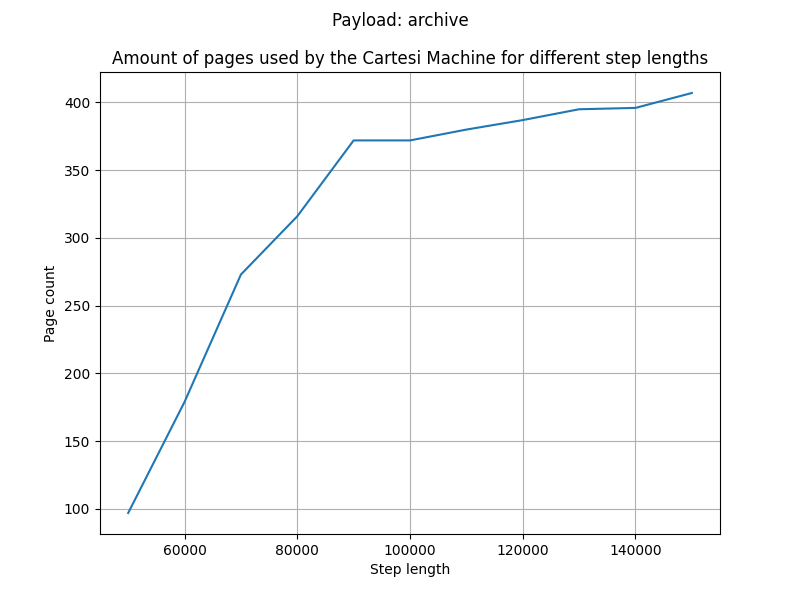
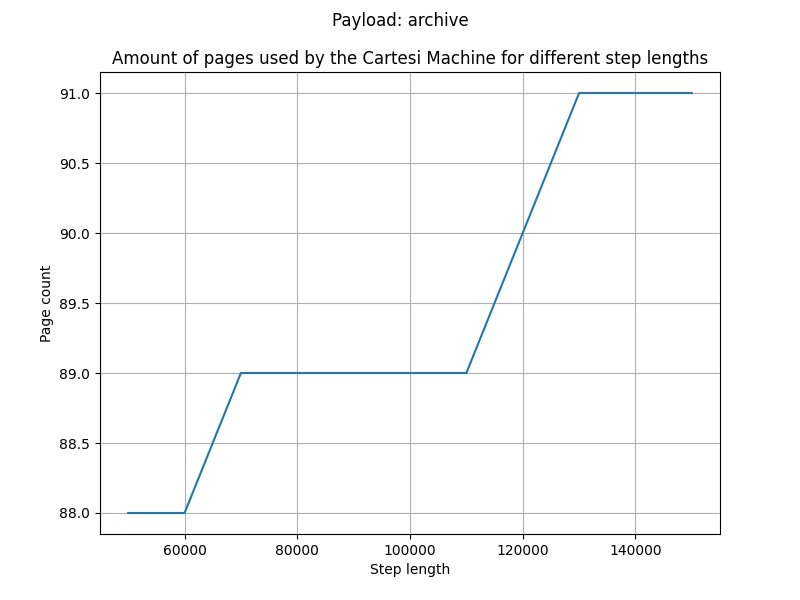
fix: update benchmark results

diff --git a/results/README.md b/results/README.md
@@ -134,7 +134,7 @@ We evaluated the following payloads:
 
 <details>
   <summary>`sort` with hashing, pages</summary>
-  [(50000, 97), (60000, 179), (70000, 273), (80000, 316), (90000, 372), (100000, 372), (110000, 380), (120000, 387), (130000, 395), (140000, 396), (150000, 407)]
+  [(50000, 77), (60000, 77), (70000, 77), (80000, 77), (90000, 77), (100000, 77), (110000, 77), (120000, 77), (130000, 77), (140000, 77), (150000, 77)]
 </details>
 
 <details>
@@ -152,7 +152,7 @@ We evaluated the following payloads:
 
 <details>
   <summary>`archive` with hashing, pages</summary>
-  [(50000, 97), (60000, 179), (70000, 273), (80000, 316), (90000, 372), (100000, 372), (110000, 380), (120000, 387), (130000, 395), (140000, 396), (150000, 407)]
+  [(50000, 88), (60000, 88), (70000, 89), (80000, 89), (90000, 89), (100000, 89), (110000, 89), (120000, 90), (130000, 91), (140000, 91), (150000, 91)]
 </details>
 
 <details>
